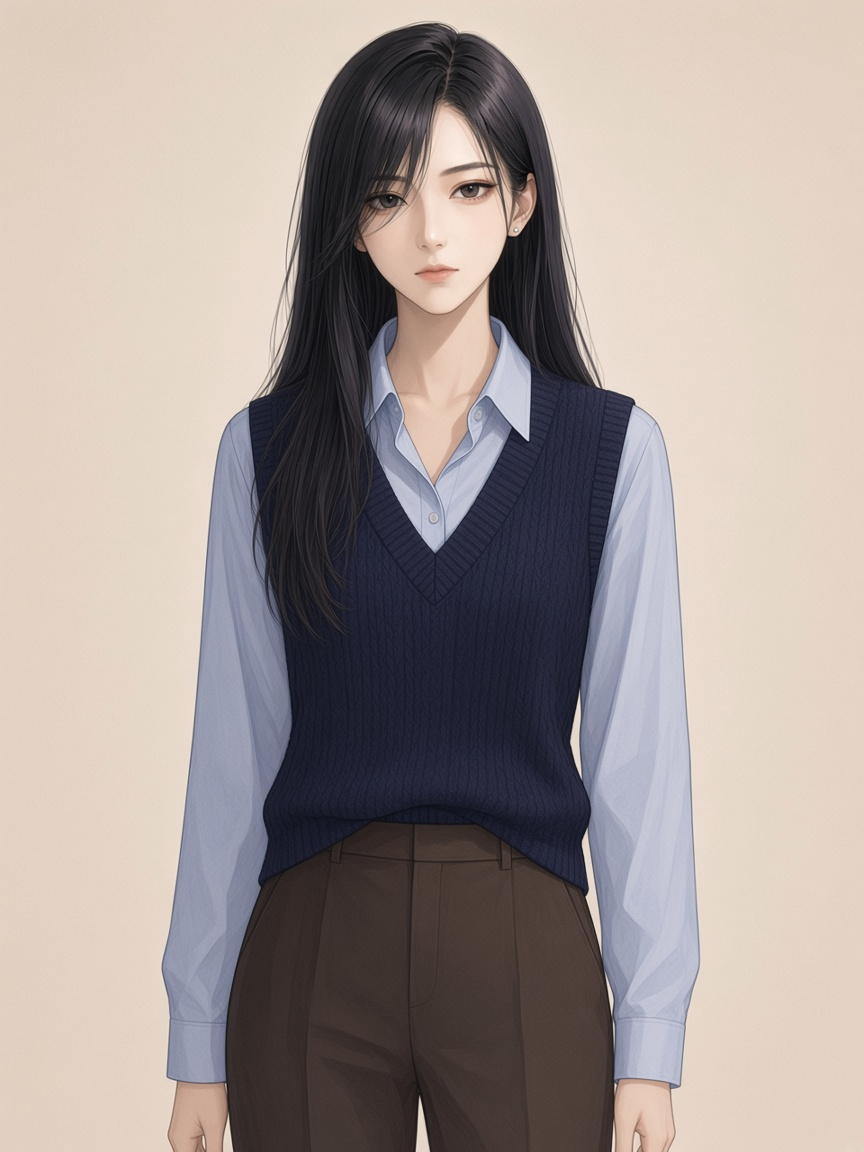
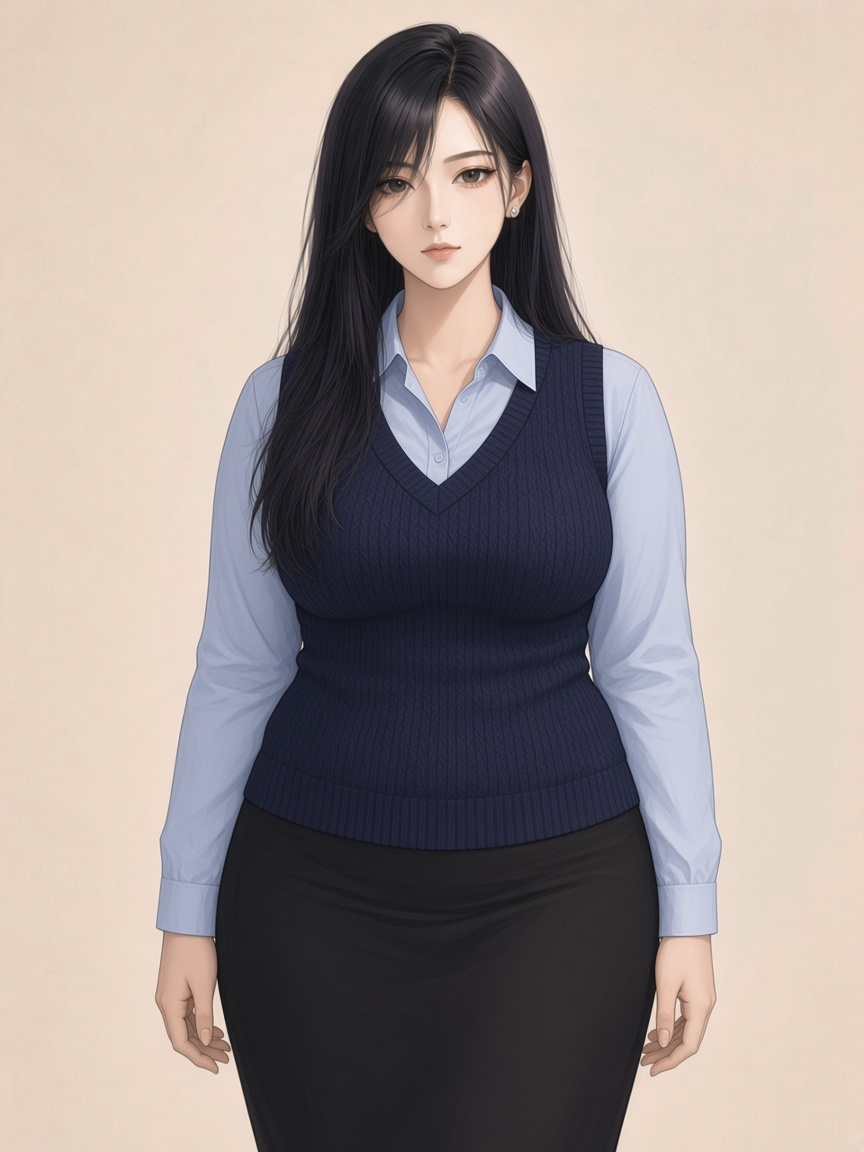
Redraw Shen Wan with a fuller figure in all thirty outfits.

Changed region(s): [[0.1562, 0.0, 0.8438, 1.0]]

diff --git a/portrait.js b/portrait.js
@@ -1,4 +1,4 @@
-/* 原创角色沈晚。同一张脸，30 套衣服按日期轮换。身材高瘦、腰细、腿长。 */
+/* 原创角色沈晚。同一张脸，30 套衣服按日期轮换。身材偏丰满。 */
 const OUTFITS = [
   { name: "深灰高领，黑风衣", file: "outfit-01.png" },
   { name: "白衬衫，墨蓝背心裙", file: "outfit-02.png" },
